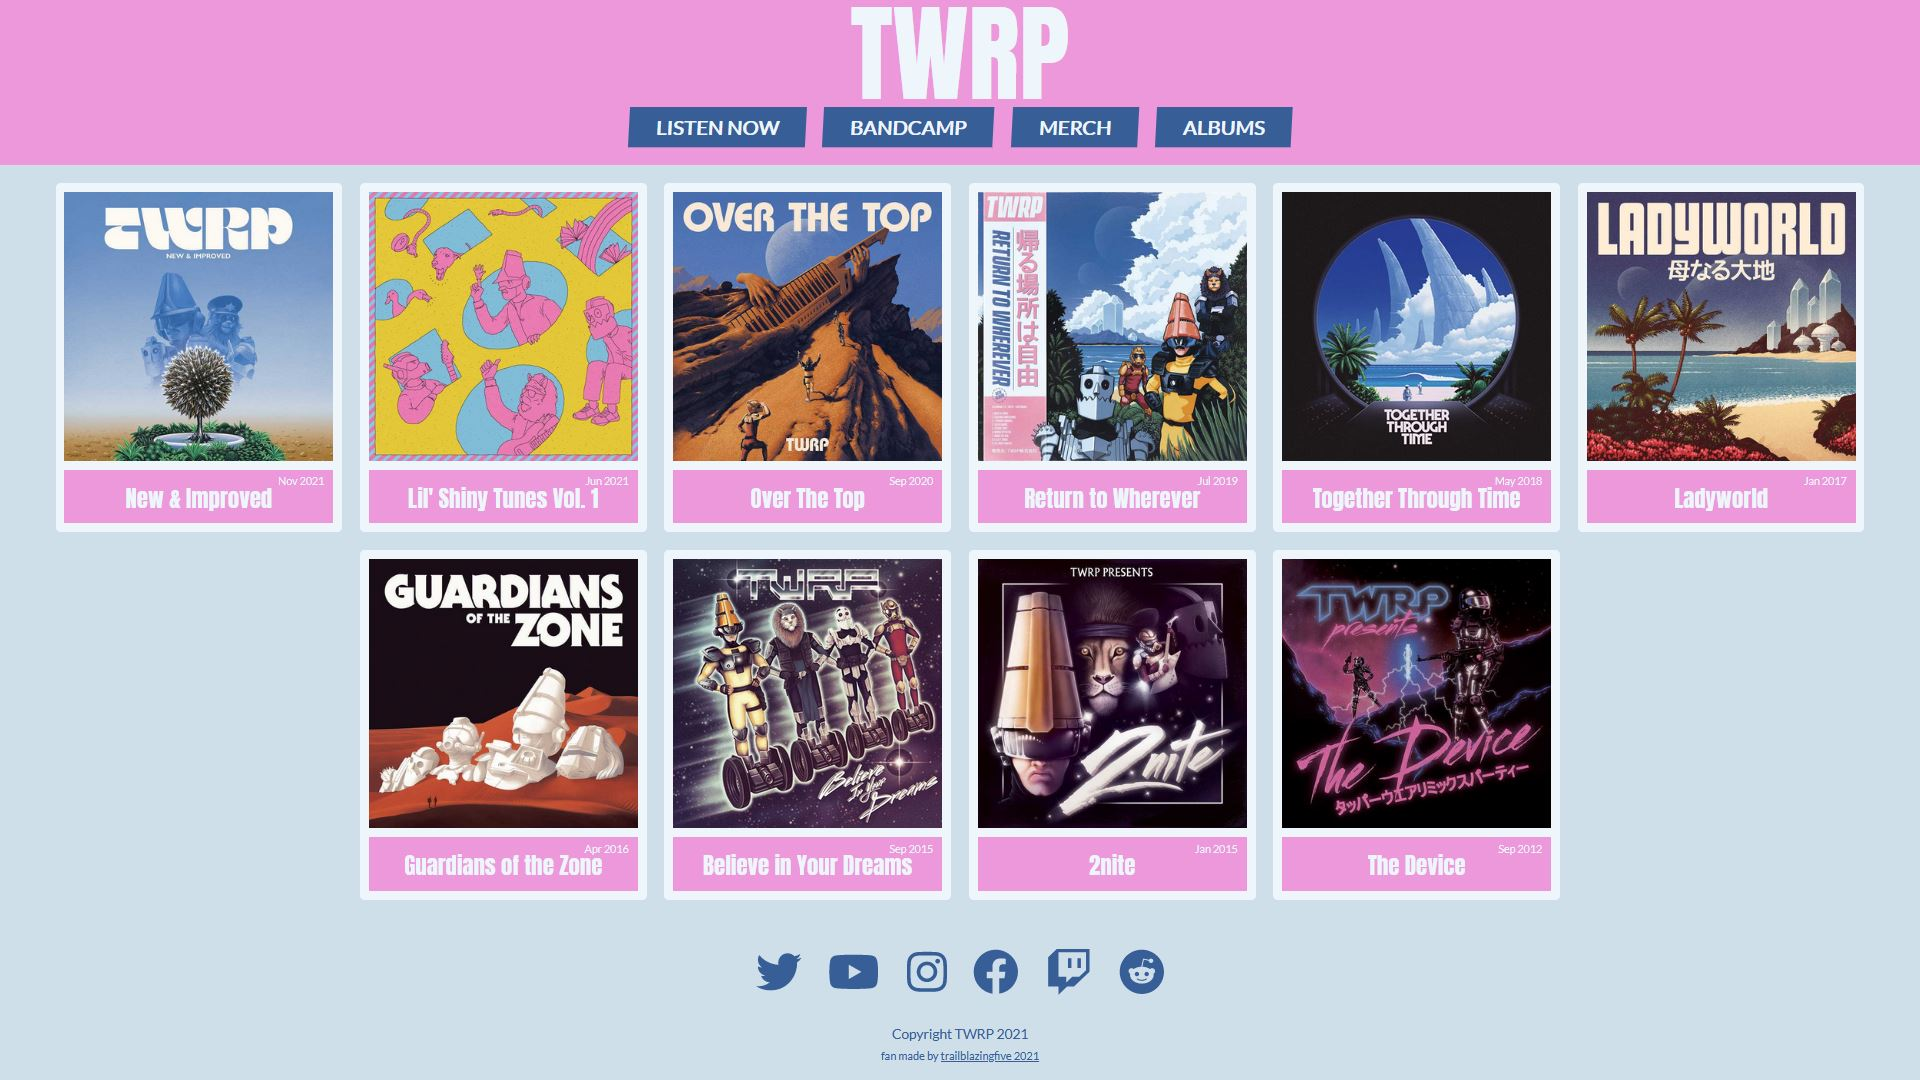
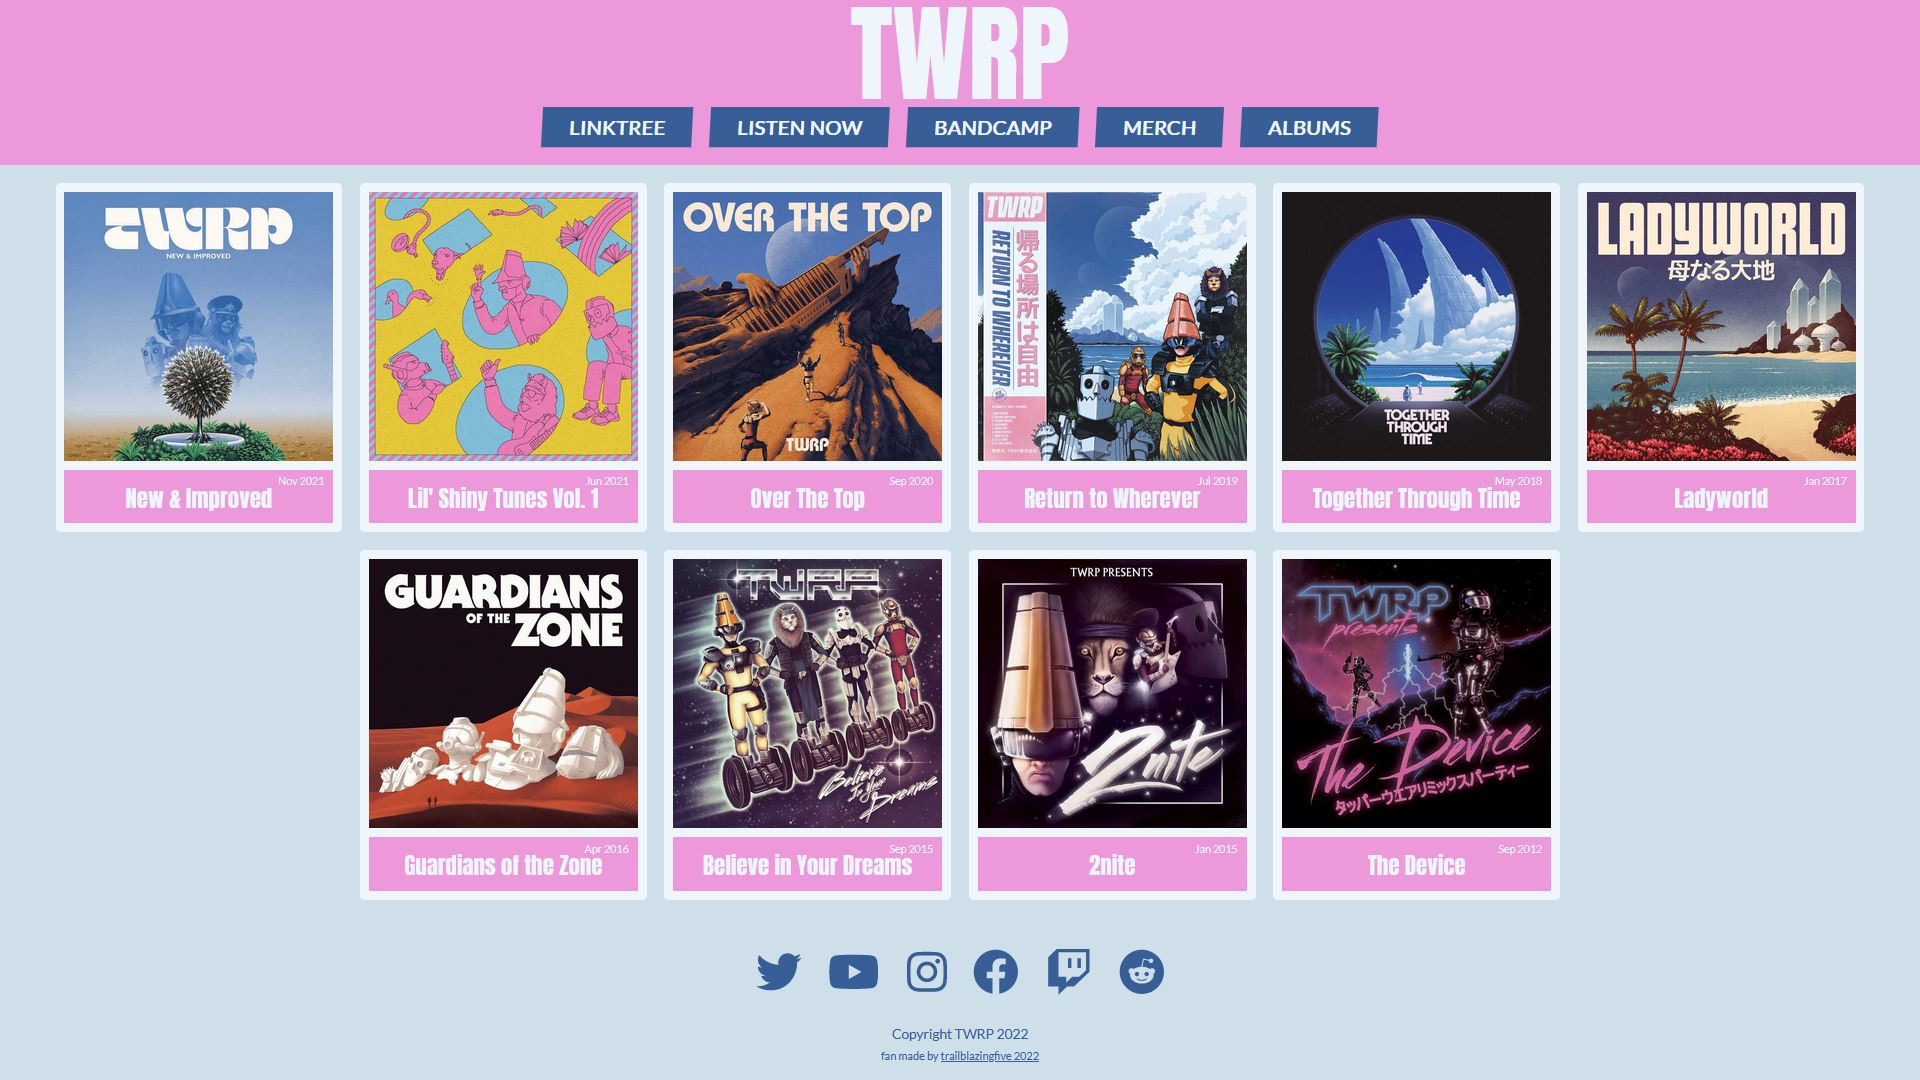
Fixed broken merch link, added linktree, updated doc image

Changed region(s): [[0.2812, 0.0917, 0.7188, 0.1528]]

diff --git a/src/components/MainMenu.js b/src/components/MainMenu.js
@@ -21,9 +21,10 @@ const MainMenu = () => {
 
   return (
     <MainMenuArea>
+      <MenuButton name={"Linktree"} target={"https://linktr.ee/twrpband"} title={"TWRP Linktree"} newTab={true}/>
       <MenuButton name={"Listen now"} target={"https://lnk.to/TWRP"} title={"Listen now to TWRP"} newTab={true}/>
       <MenuButton name={"Bandcamp"} target={"https://twrp.bandcamp.com/"} title={"Get TWRP music"} newTab={true}/>
-      <MenuButton name={"Merch"} target={"https://twrp.store-08.com/featured/"} title={"Checkout TWRP merch"} newTab={true}/>
+      <MenuButton name={"Merch"} target={"https://store.twrpband.com/"} title={"Checkout TWRP merch"} newTab={true}/>
       <MenuButtonInternal name={"Albums"} target={"/albums"} title={"Our albums"} newTab={false}/>
       {/* <MenuButton name={""} target={""} title={""}/> */}
     </MainMenuArea>
